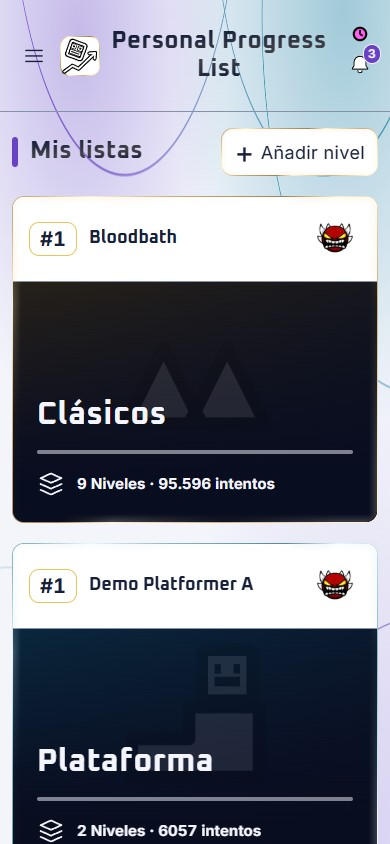
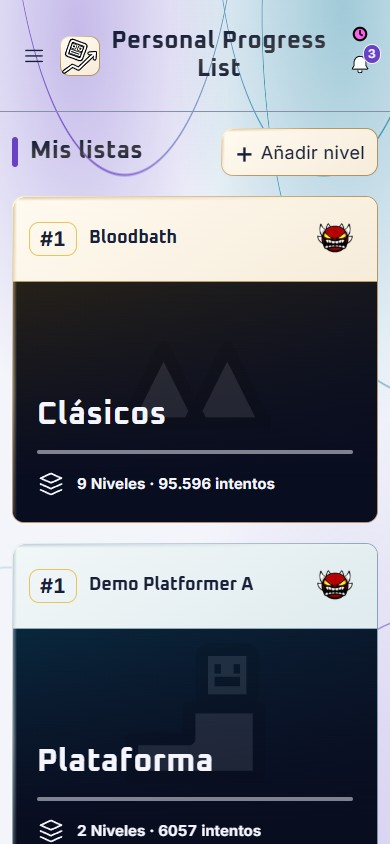
Use the directional satin finish in Porcelain only

diff --git a/css/styles.css b/css/styles.css
@@ -4059,12 +4059,30 @@ main.home {
       linear-gradient(var(--rim-fill, var(--color-surface)), var(--rim-fill, var(--color-surface))) padding-box,
       var(--rim-paint) border-box;
     box-shadow: none;
+
+    &:where([data-theme=porcelain] *) {
+      --rim-paint: linear-gradient(145deg, var(--metal-glint), var(--metal-edge) 42%, var(--metal-shade) 92%);
+      background:
+        linear-gradient(148deg, var(--rim-fill, var(--satin-light)), var(--rim-fill, var(--satin-base))) padding-box,
+        var(--rim-paint) border-box;
+    }
   }
 
   .hl .hcard-platform {
     --metal-edge: #89b5bf;
     --metal-shade: #538a99;
     --metal-glint: #e6faff;
+  }
+  [data-theme=porcelain] .hl .hcard-platform {
+    --metal-edge: #90aab7;
+    --metal-glint: #ebf3f5;
+    --metal-shade: #7293a4;
+    --satin-light: #f2f7f8;
+    --satin-base: #dfebef;
+  }
+  [data-theme=porcelain] .hcard-top {
+    background: linear-gradient(145deg, var(--satin-light), var(--satin-base));
+    border-color: var(--metal-edge);
   }
   .lh .list-add, .dgb .pri, .wa .pri {
     --rim-fill: var(--color-accent);
@@ -4118,7 +4136,16 @@ main.home {
       mask-composite: intersect, add, add, add;
     }
     .hl .hcard { --reflection-depth: 8px; }
-    [data-theme=porcelain] :is(.hcard, button, .ms summary, .trig)::before { --light-reflection-opacity: .24; }
+    [data-theme=porcelain] :is(.hcard, button, .ms summary, .trig)::before {
+      --reflection-depth: 3px;
+      opacity: .54;
+      background: linear-gradient(145deg, var(--metal-edge), var(--metal-glint) 34%, transparent 70%);
+      mask-image:
+        linear-gradient(to bottom, black, transparent var(--reflection-depth)),
+        linear-gradient(to right, black, transparent var(--reflection-depth));
+      mask-composite: add;
+    }
+    [data-theme=porcelain] .hl .hcard::before { --reflection-depth: 4px; }
   }
 
   /* Detail images supply their own background, so paint the same thin edge above it. */
@@ -4319,6 +4346,8 @@ main.home {
 }
 
 [data-theme=porcelain] .legacy-surface {
+  --satin-light: var(--color-surface);
+  --satin-base: var(--color-surface-elevated);
   --color-bg: var(--color-nebula-bg);
   --color-surface: var(--color-nebula-surface);
   --color-text: var(--color-nebula-text);

diff --git a/css/tokens.css b/css/tokens.css
@@ -156,9 +156,11 @@
   --color-surface-elevated: #E8ECF5;
   --color-border: #8591A8;
   --color-success: #18733D;
-  --metal-edge: #CEAE79;
-  --metal-shade: #A9804C;
-  --metal-glint: #FFF1CF;
+  --satin-light: #FFFAF0;
+  --satin-base: #F6ECDA;
+  --metal-edge: #BC9862;
+  --metal-shade: #B09168;
+  --metal-glint: #FAEFD8;
   --color-warning: #846000;
   --color-error: #B62D49;
   --color-info: #176A9E;
